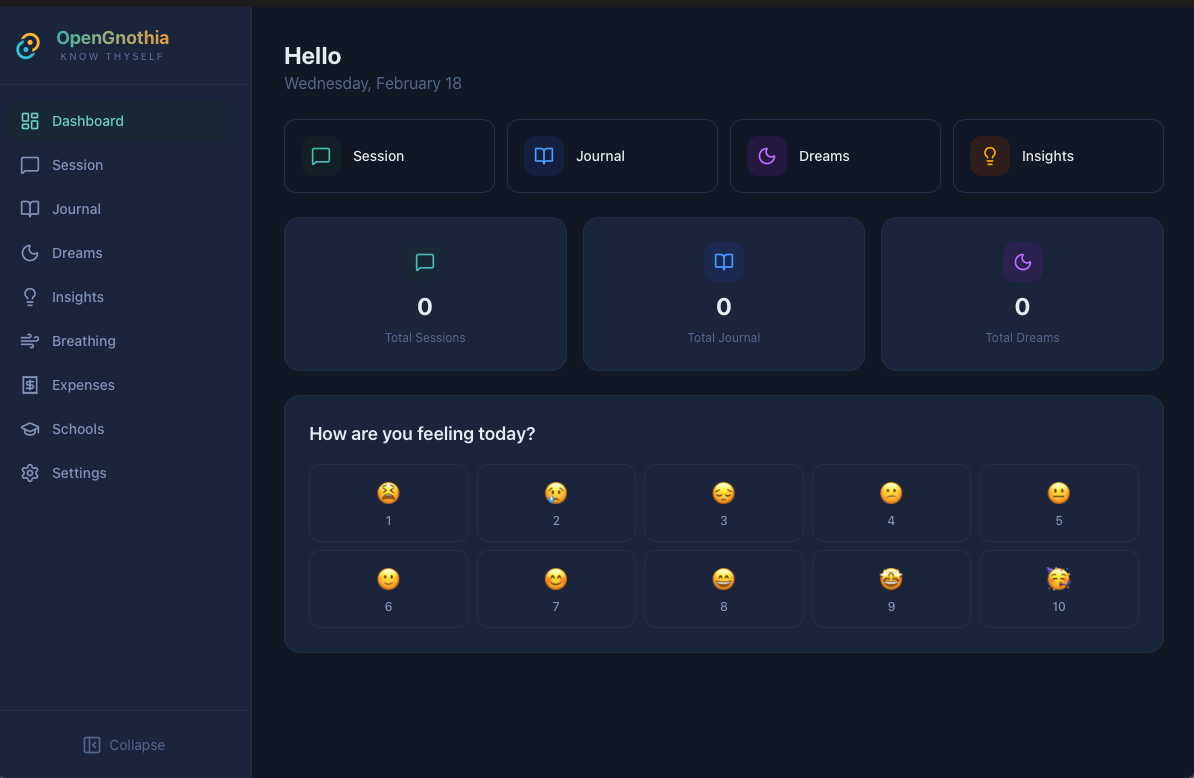
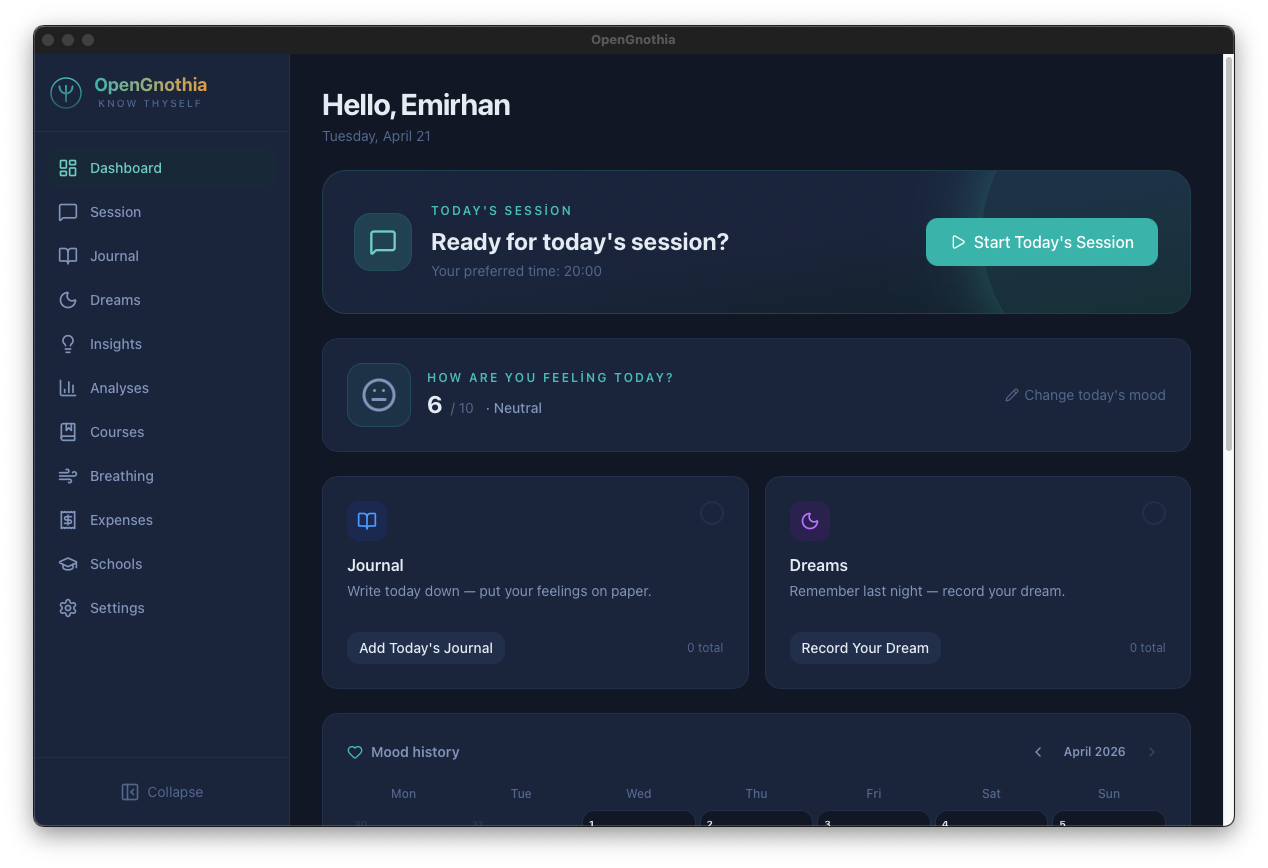
Refresh README screenshots with current UI captures
Replace outdated v2 screenshots with an up-to-date 11-image set covering
Dashboard, Sessions, Analyses, Insights, Dreams, Schools, Courses,
Breathing, Expenses, and Settings pages.

diff --git a/README.md b/README.md
@@ -41,23 +41,27 @@ Mental health support should be accessible, private, and personalized. OpenGnoth
 <div align="center">
   <table>
     <tr>
-      <td colspan="2" align="center"><img src="assets/screenshots/session_on.png" alt="Live Therapy Session" width="600" /><br /><sub><b>Live Therapy Session</b></sub></td>
+      <td colspan="2" align="center"><img src="assets/screenshots/sessions_on.png" alt="Live Therapy Session" width="600" /><br /><sub><b>Live Therapy Session</b></sub></td>
     </tr>
     <tr>
-      <td align="center"><img src="assets/screenshots/session_page_v2.png" alt="AI Therapy Session" width="400" /><br /><sub><b>AI Therapy Session</b></sub></td>
-      <td align="center"><img src="assets/screenshots/mood_tracking_v2.png" alt="Mood Tracking" width="400" /><br /><sub><b>Mood Tracking</b></sub></td>
-    </tr>
-    <tr>
-      <td align="center"><img src="assets/screenshots/journal_page_v2.png" alt="Journal" width="400" /><br /><sub><b>Journal</b></sub></td>
-      <td align="center"><img src="assets/screenshots/dreams_page.png" alt="Dream Analysis" width="400" /><br /><sub><b>Dream Analysis</b></sub></td>
-    </tr>
-    <tr>
-      <td align="center"><img src="assets/screenshots/insights_page.png" alt="AI Insights" width="400" /><br /><sub><b>AI-Generated Insights</b></sub></td>
-      <td align="center"><img src="assets/screenshots/school_page_v2.png" alt="Therapy Schools" width="400" /><br /><sub><b>Therapy Schools</b></sub></td>
-    </tr>
-    <tr>
-      <td align="center"><img src="assets/screenshots/breating_page_v2.png" alt="Breathing Exercises" width="400" /><br /><sub><b>Breathing Exercises</b></sub></td>
       <td align="center"><img src="assets/screenshots/dashboard.png" alt="Dashboard" width="400" /><br /><sub><b>Dashboard</b></sub></td>
+      <td align="center"><img src="assets/screenshots/sessions_page.png" alt="AI Therapy Session" width="400" /><br /><sub><b>AI Therapy Sessions</b></sub></td>
+    </tr>
+    <tr>
+      <td align="center"><img src="assets/screenshots/analyses_page.png" alt="Analyses" width="400" /><br /><sub><b>Analyses</b></sub></td>
+      <td align="center"><img src="assets/screenshots/insights_page.png" alt="AI Insights" width="400" /><br /><sub><b>AI-Generated Insights</b></sub></td>
+    </tr>
+    <tr>
+      <td align="center"><img src="assets/screenshots/dreams_page.png" alt="Dream Analysis" width="400" /><br /><sub><b>Dream Analysis</b></sub></td>
+      <td align="center"><img src="assets/screenshots/schools_page.png" alt="Therapy Schools" width="400" /><br /><sub><b>Therapy Schools</b></sub></td>
+    </tr>
+    <tr>
+      <td align="center"><img src="assets/screenshots/courses_page.png" alt="Therapy Programs" width="400" /><br /><sub><b>Therapy Programs</b></sub></td>
+      <td align="center"><img src="assets/screenshots/breathing_page.png" alt="Breathing Exercises" width="400" /><br /><sub><b>Breathing Exercises</b></sub></td>
+    </tr>
+    <tr>
+      <td align="center"><img src="assets/screenshots/expenses_page.png" alt="Expenses" width="400" /><br /><sub><b>Expenses</b></sub></td>
+      <td align="center"><img src="assets/screenshots/settings_page.png" alt="Settings" width="400" /><br /><sub><b>Settings</b></sub></td>
     </tr>
   </table>
 </div>
